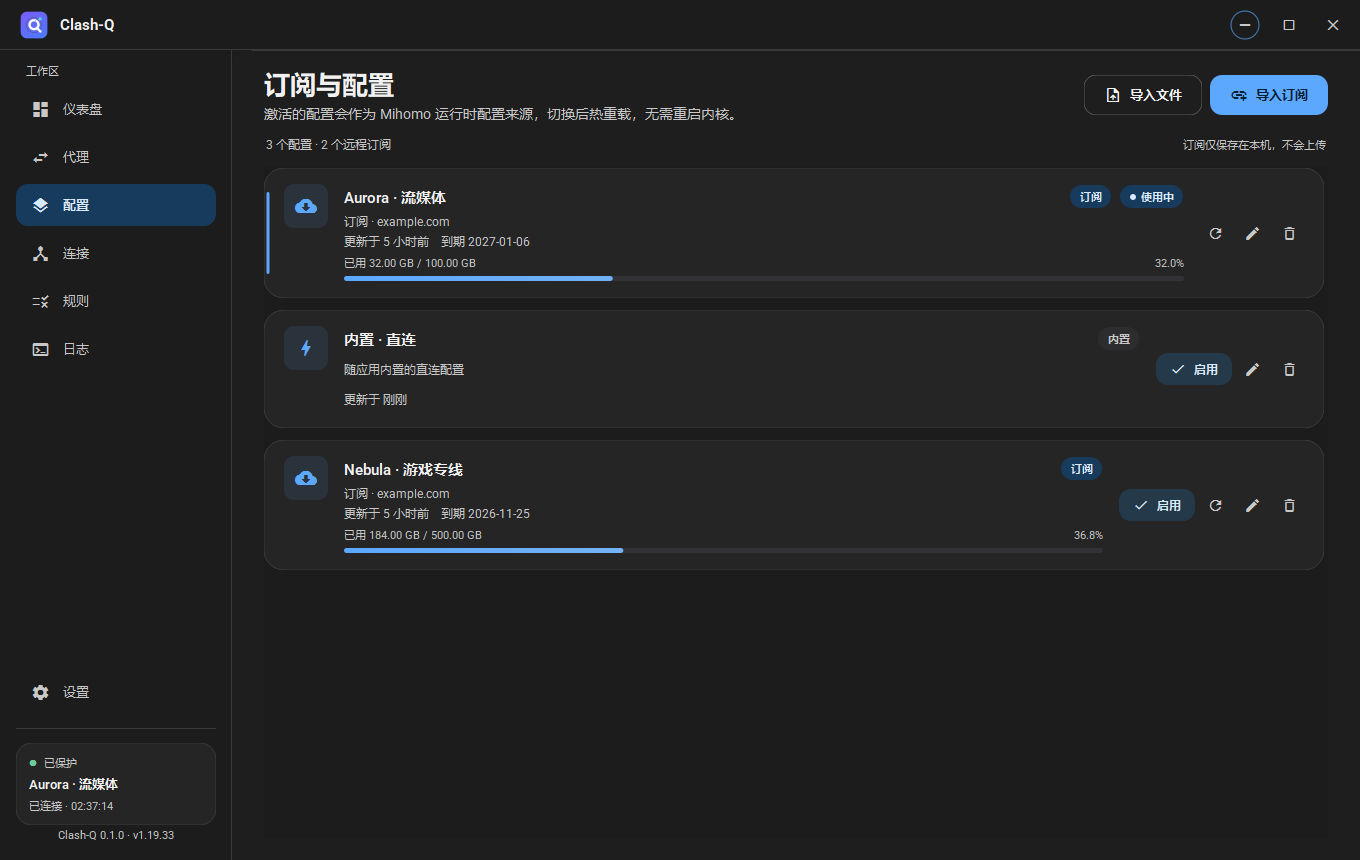
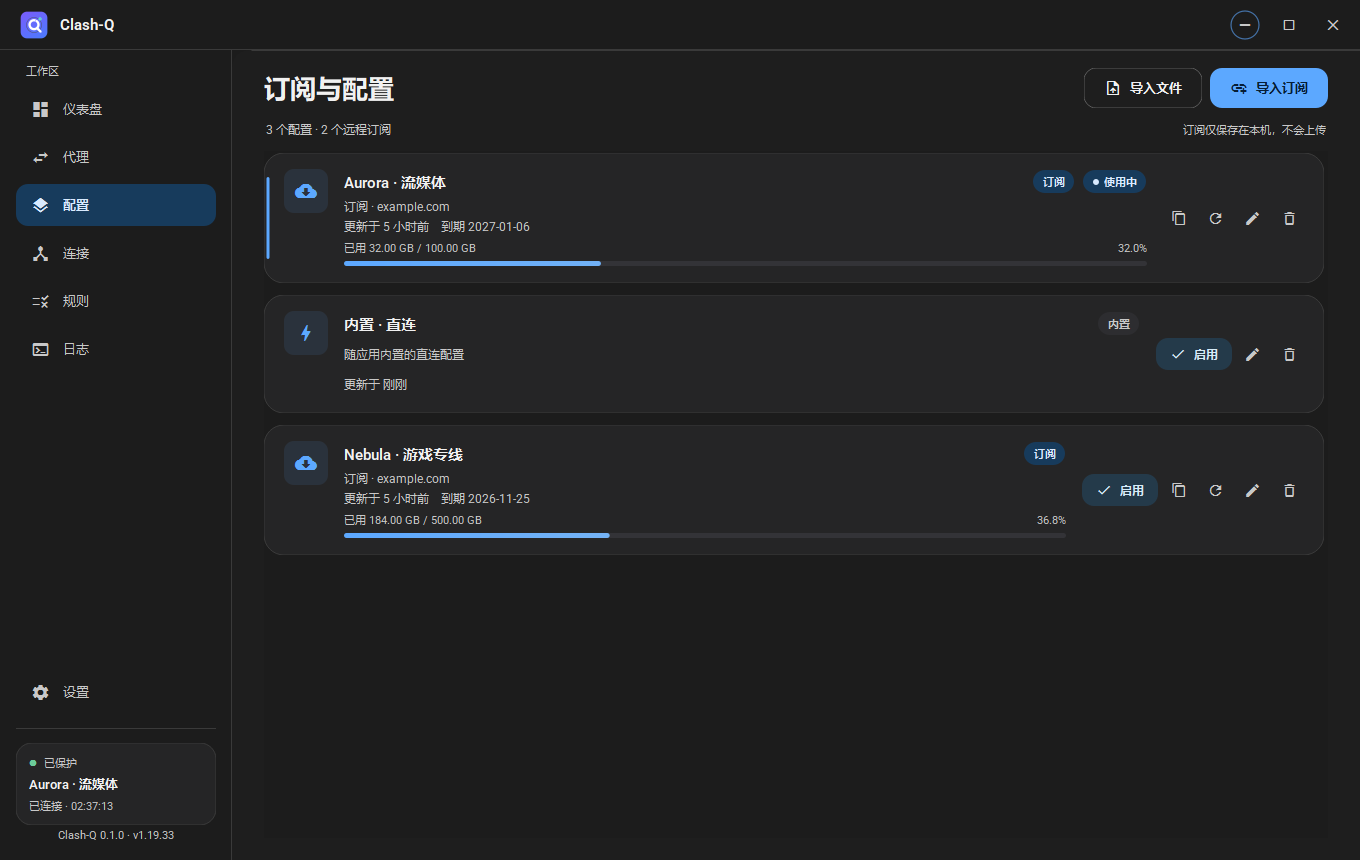
fix: cursor and delay rendering; add subscription copy and app log settings

diff --git a/src/ui/pages/SettingsPage.cpp b/src/ui/pages/SettingsPage.cpp
@@ -201,6 +201,27 @@ void SettingsPage::buildUi()
            QStringLiteral("测速时请求的 204 地址，应返回空响应"), QStringLiteral("speed"),
            m_delayUrl, true);
 
+    // Application logging
+    M3Card* logging = makeSection(
+        m_content, m_sections, QStringLiteral("日志"),
+        QStringLiteral("控制应用自身的日志输出；Mihomo 内核日志级别在内核区域单独设置。"));
+    auto* loggingLayout = qobject_cast<QVBoxLayout*>(logging->layout());
+
+    m_appLogLevel = new M3SegmentedControl(
+        {QStringLiteral("错误"), QStringLiteral("警告"), QStringLiteral("信息"),
+         QStringLiteral("调试")},
+        logging);
+    m_appLogLevel->setCompact(true);
+    m_appLogLevel->setFixedWidth(390);
+    addRow(loggingLayout, logging, QStringLiteral("应用日志级别"),
+           QStringLiteral("低于该级别的应用日志不会记录到历史或文件"),
+           QStringLiteral("receipt_long"), m_appLogLevel, false);
+
+    m_appLogToFile = makeSwitch(logging);
+    addRow(loggingLayout, logging, QStringLiteral("写入日志文件"),
+           QStringLiteral("保存到数据目录，单个日志文件超过 2 MB 自动轮转"),
+           QStringLiteral("description"), m_appLogToFile, true);
+
     // Core
     M3Card* core = makeSection(
         m_content, m_sections, QStringLiteral("内核"),
@@ -249,7 +270,7 @@ void SettingsPage::buildUi()
         core);
     m_logLevel->setCompact(true);
     m_logLevel->setFixedWidth(390);
-    addRow(coreLayout, core, QStringLiteral("日志级别"),
+    addRow(coreLayout, core, QStringLiteral("内核日志级别"),
            QStringLiteral("调试日志会明显增加输出量"), QStringLiteral("receipt_long"),
            m_logLevel, true);
 
@@ -304,6 +325,7 @@ void SettingsPage::buildUi()
     connectSwitch(m_autoLaunch);
     connectSwitch(m_startMinimized);
     connectSwitch(m_closeToTray);
+    connectSwitch(m_appLogToFile);
 
     for (QLineEdit* edit : {m_mixedPort, m_controllerPort, m_delayUrl, m_corePath}) {
         connect(edit, &QLineEdit::textChanged, this, [this](const QString&) {
@@ -316,6 +338,8 @@ void SettingsPage::buildUi()
     connect(m_updateInterval, &M3SegmentedControl::currentChanged, this,
             [this](int, const QString&) { markDirty(); });
     connect(m_logLevel, &M3SegmentedControl::currentChanged, this,
+            [this](int, const QString&) { markDirty(); });
+    connect(m_appLogLevel, &M3SegmentedControl::currentChanged, this,
             [this](int, const QString&) { markDirty(); });
 }
 
@@ -380,6 +404,16 @@ void SettingsPage::refreshFromSettings()
         logIndex = 3;
     m_logLevel->setCurrentIndex(logIndex);
 
+    int appLogIndex = 2;
+    if (settings.appLogLevel == QStringLiteral("error"))
+        appLogIndex = 0;
+    else if (settings.appLogLevel == QStringLiteral("warning"))
+        appLogIndex = 1;
+    else if (settings.appLogLevel == QStringLiteral("debug"))
+        appLogIndex = 3;
+    m_appLogLevel->setCurrentIndex(appLogIndex);
+    m_appLogToFile->setChecked(settings.appLogToFile);
+
     m_dataRow->setSubtitle(QDir::toNativeSeparators(AppPaths::dataDir()));
     m_syncing = false;
 }
@@ -423,6 +457,11 @@ void SettingsPage::apply()
     static const QStringList levels = {QStringLiteral("info"), QStringLiteral("warning"),
                                       QStringLiteral("error"), QStringLiteral("debug")};
     next.logLevel = levels.value(m_logLevel->currentIndex(), QStringLiteral("info"));
+    static const QStringList appLevels = {QStringLiteral("error"), QStringLiteral("warning"),
+                                          QStringLiteral("info"), QStringLiteral("debug")};
+    next.appLogLevel =
+        appLevels.value(m_appLogLevel->currentIndex(), QStringLiteral("info"));
+    next.appLogToFile = m_appLogToFile->isChecked();
     static const QList<int> intervals = {0, 6, 12, 24};
     next.subscriptionIntervalHours = intervals.value(m_updateInterval->currentIndex(), 0);
     // The mode is controlled from the dashboard; preserve its current value.

diff --git a/src/core/SettingsStore.cpp b/src/core/SettingsStore.cpp
@@ -41,6 +41,10 @@ cq::AppSettings SettingsStore::load()
 
     settings.logLevel =
         ini.value(QStringLiteral("core/logLevel"), settings.logLevel).toString().toLower();
+    settings.appLogLevel =
+        ini.value(QStringLiteral("logging/level"), settings.appLogLevel).toString().toLower();
+    settings.appLogToFile =
+        ini.value(QStringLiteral("logging/toFile"), settings.appLogToFile).toBool();
     settings.corePath = ini.value(QStringLiteral("core/path"), QString()).toString();
     settings.delayTestUrl =
         ini.value(QStringLiteral("core/delayTestUrl"), settings.delayTestUrl).toString();
@@ -78,6 +82,10 @@ cq::AppSettings SettingsStore::load()
                                 QStringLiteral("error")};
     if (!levels.contains(settings.logLevel))
         settings.logLevel = QStringLiteral("info");
+    const QStringList appLevels = {QStringLiteral("error"), QStringLiteral("warning"),
+                                   QStringLiteral("info"), QStringLiteral("debug")};
+    if (!appLevels.contains(settings.appLogLevel))
+        settings.appLogLevel = QStringLiteral("info");
 
     return settings;
 }
@@ -96,6 +104,8 @@ void SettingsStore::save(const cq::AppSettings& settings)
     ini.setValue(QStringLiteral("network/tun"), settings.tunEnabled);
 
     ini.setValue(QStringLiteral("core/logLevel"), settings.logLevel);
+    ini.setValue(QStringLiteral("logging/level"), settings.appLogLevel);
+    ini.setValue(QStringLiteral("logging/toFile"), settings.appLogToFile);
     ini.setValue(QStringLiteral("core/path"), settings.corePath);
     ini.setValue(QStringLiteral("core/delayTestUrl"), settings.delayTestUrl);
 

diff --git a/src/ui/pages/ProfilesPage.cpp b/src/ui/pages/ProfilesPage.cpp
@@ -34,8 +34,7 @@ void ProfilesPage::buildUi()
     root->setContentsMargins(32, 18, 32, 22);
     root->setSpacing(14);
 
-    m_header = new PageHeader(QStringLiteral("订阅与配置"),
-                              QStringLiteral("统一管理 Clash / Mihomo 配置，切换后立即生效。"), this);
+    m_header = new PageHeader(QStringLiteral("订阅与配置"), {}, this);
 
     m_busyPill = new M3Pill(QStringLiteral("正在更新"), this);
     m_busyPill->setTone(M3Pill::Tone::Warning);
@@ -106,10 +105,6 @@ void ProfilesPage::updateBusyState()
     m_busyPill->setVisible(busy);
     m_importUrlButton->setEnabled(!busy);
     m_importFileButton->setEnabled(!busy);
-    m_header->setSubtitle(
-        busy ? QStringLiteral("正在下载并校验订阅配置…")
-             : QStringLiteral("激活的配置会作为 Mihomo 运行时配置来源，切换后热重载，"
-                              "无需重启内核。"));
 }
 
 void ProfilesPage::importUrl()
@@ -207,10 +202,5 @@ void ProfilesPage::rebuild()
     m_countLabel->setText(QStringLiteral("%1 个配置 · %2 个远程订阅")
                               .arg(profiles.size())
                               .arg(subscriptions));
-    m_header->setSubtitle(
-        m_controller->profileStore()->isBusy()
-            ? QStringLiteral("正在下载并校验订阅配置…")
-            : QStringLiteral("激活的配置会作为 Mihomo 运行时配置来源，切换后热重载，"
-                             "无需重启内核。"));
     m_scroll->verticalScrollBar()->setValue(scrollValue);
 }

diff --git a/src/ui/widgets/ProxyNodeCard.cpp b/src/ui/widgets/ProxyNodeCard.cpp
@@ -10,6 +10,8 @@
 #include <QPainter>
 #include <QPainterPath>
 
+#include <cmath>
+
 ProxyNodeCard::ProxyNodeCard(const cq::ProxyNode& node, bool selected, QWidget* parent)
     : QWidget(parent)
     , m_node(node)
@@ -130,7 +132,11 @@ void ProxyNodeCard::paintEvent(QPaintEvent*)
         direct ? p.secondary : reject ? p.error : Formatters::delayColor(m_node.delay);
     const QFont delayFont = Fonts::text(11, QFont::DemiBold);
     const QFontMetricsF delayMetrics(delayFont);
-    const qreal delayWidth = delayMetrics.horizontalAdvance(delayText) + 20;
+    // Reserve the dot (16px), the text advance, and a small right gutter.
+    // Extra pixels absorb fractional-width rounding at high DPI; otherwise
+    // the final glyph (e.g. the "s" in "404 ms") gets clipped.
+    const qreal delayWidth =
+        std::ceil(delayMetrics.horizontalAdvance(delayText)) + 32;
     const QRectF delayRect(width() - delayWidth - 14, height() - 33, delayWidth, 20);
     painter.setPen(Qt::NoPen);
     painter.setBrush(m_selected ? Theme::alpha(p.onSecondaryContainer, 22)
@@ -140,7 +146,7 @@ void ProxyNodeCard::paintEvent(QPaintEvent*)
     painter.drawEllipse(QPointF(delayRect.left() + 9, delayRect.center().y()), 2.8, 2.8);
     painter.setFont(delayFont);
     painter.setPen(m_selected ? p.onSecondaryContainer : p.onSurfaceVariant);
-    painter.drawText(delayRect.adjusted(16, 0, -7, 0), Qt::AlignVCenter | Qt::AlignLeft,
+    painter.drawText(delayRect.adjusted(16, 0, -8, 0), Qt::AlignVCenter | Qt::AlignLeft,
                      delayText);
 }
 

diff --git a/src/models/ConnectionListModel.cpp b/src/models/ConnectionListModel.cpp
@@ -247,11 +247,20 @@ ConnectionListView::ConnectionListView(QWidget* parent)
 {
     setMouseTracking(true);
     viewport()->setMouseTracking(true);
-    setCursor(Qt::PointingHandCursor);
+    viewport()->setCursor(Qt::ArrowCursor);
     setSelectionMode(QAbstractItemView::NoSelection);
     setVerticalScrollMode(QAbstractItemView::ScrollPerPixel);
     setHorizontalScrollBarPolicy(Qt::ScrollBarAlwaysOff);
     setUniformItemSizes(true);
+}
+
+void ConnectionListView::mouseMoveEvent(QMouseEvent* event)
+{
+    const QPoint pos = event->position().toPoint();
+    const QModelIndex index = indexAt(pos);
+    const bool overClose = index.isValid() && pos.x() >= viewport()->width() - 54;
+    viewport()->setCursor(overClose ? Qt::PointingHandCursor : Qt::ArrowCursor);
+    QListView::mouseMoveEvent(event);
 }
 
 void ConnectionListView::mouseReleaseEvent(QMouseEvent* event)
@@ -260,10 +269,17 @@ void ConnectionListView::mouseReleaseEvent(QMouseEvent* event)
         const QPoint pos = event->position().toPoint();
         const QModelIndex index = indexAt(pos);
         if (index.isValid() && pos.x() >= viewport()->width() - 54) {
+            viewport()->setCursor(Qt::ArrowCursor);
             emit closeRequested(index.data(ConnectionListModel::IdRole).toString());
             event->accept();
             return;
         }
     }
     QListView::mouseReleaseEvent(event);
+}
+
+void ConnectionListView::leaveEvent(QEvent* event)
+{
+    viewport()->setCursor(Qt::ArrowCursor);
+    QListView::leaveEvent(event);
 }

diff --git a/src/core/ClashController.cpp b/src/core/ClashController.cpp
@@ -31,6 +31,17 @@ namespace {
 constexpr int kStartupTimeoutMs = 35000;
 constexpr int kMaxLogEntries = 2000;
 
+int appLogThreshold(const QString& level)
+{
+    if (level == QStringLiteral("debug"))
+        return static_cast<int>(cq::LogLevel::Debug);
+    if (level == QStringLiteral("warning"))
+        return static_cast<int>(cq::LogLevel::Warning);
+    if (level == QStringLiteral("error"))
+        return static_cast<int>(cq::LogLevel::Error);
+    return static_cast<int>(cq::LogLevel::Info);
+}
+
 QString demoNodeType(const QString& name)
 {
     if (name.contains(QStringLiteral("东京")) || name.contains(QStringLiteral("大阪")))
@@ -1453,6 +1464,8 @@ void ClashController::log(cq::LogLevel level, const QString& message)
 {
     if (message.isEmpty())
         return;
+    if (static_cast<int>(level) < appLogThreshold(m_settings.appLogLevel))
+        return;
     cq::LogEntry entry;
     entry.time = QDateTime::currentDateTime();
     entry.level = level;
@@ -1466,6 +1479,8 @@ void ClashController::log(cq::LogLevel level, const QString& message)
 
 void ClashController::appendLogFile(const cq::LogEntry& entry)
 {
+    if (!m_settings.appLogToFile)
+        return;
     QFile file(AppPaths::logFile());
     if (!file.open(QIODevice::WriteOnly | QIODevice::Append | QIODevice::Text))
         return;

diff --git a/src/ui/widgets/ProfileCard.cpp b/src/ui/widgets/ProfileCard.cpp
@@ -4,10 +4,14 @@
 #include "app/Theme.h"
 #include "core/Formatters.h"
 
+#include <QApplication>
+#include <QClipboard>
+#include <QCursor>
 #include <QDateTime>
 #include <QHBoxLayout>
 #include <QLabel>
 #include <QPainter>
+#include <QToolTip>
 #include <QUrl>
 #include <QVBoxLayout>
 
@@ -127,6 +131,19 @@ ProfileCard::ProfileCard(const cq::ProfileMeta& profile, QWidget* parent)
     }
 
     if (profile.remote()) {
+        auto* copy = new M3IconButton(QStringLiteral("content_copy"), this);
+        copy->setDiameter(32);
+        copy->setGlyphSize(16);
+        copy->setToolTip(QStringLiteral("复制订阅链接"));
+        copy->setAccessibleName(QStringLiteral("复制订阅链接 %1").arg(profile.name));
+        connect(copy, &QAbstractButton::clicked, this, [this, copy] {
+            if (m_profile.url.isEmpty())
+                return;
+            QApplication::clipboard()->setText(m_profile.url);
+            QToolTip::showText(QCursor::pos(), QStringLiteral("已复制订阅链接"), copy);
+        });
+        actions->addWidget(copy);
+
         auto* update = new M3IconButton(QStringLiteral("refresh"), this);
         update->setDiameter(32);
         update->setGlyphSize(17);

diff --git a/src/ui/pages/SettingsPage.h b/src/ui/pages/SettingsPage.h
@@ -54,6 +54,8 @@ private:
     QLineEdit* m_delayUrl = nullptr;
     QLineEdit* m_corePath = nullptr;
     M3SegmentedControl* m_logLevel = nullptr;
+    M3SegmentedControl* m_appLogLevel = nullptr;
+    M3Switch* m_appLogToFile = nullptr;
     M3SettingRow* m_corePathRow = nullptr;
     M3SettingRow* m_dataRow = nullptr;
     M3Pill* m_coreStatusPill = nullptr;

diff --git a/src/core/Types.h b/src/core/Types.h
@@ -18,6 +18,8 @@ struct AppSettings {
     bool allowLan = false;
     QString mode = QStringLiteral("rule");
     QString logLevel = QStringLiteral("info");
+    QString appLogLevel = QStringLiteral("info");
+    bool appLogToFile = true;
     bool ipv6 = false;
     bool tunEnabled = false;
     bool autoLaunch = false;

diff --git a/src/models/ConnectionListModel.h b/src/models/ConnectionListModel.h
@@ -78,5 +78,7 @@ signals:
     void closeRequested(const QString& id);
 
 protected:
+    void mouseMoveEvent(QMouseEvent* event) override;
     void mouseReleaseEvent(QMouseEvent* event) override;
+    void leaveEvent(QEvent* event) override;
 };
